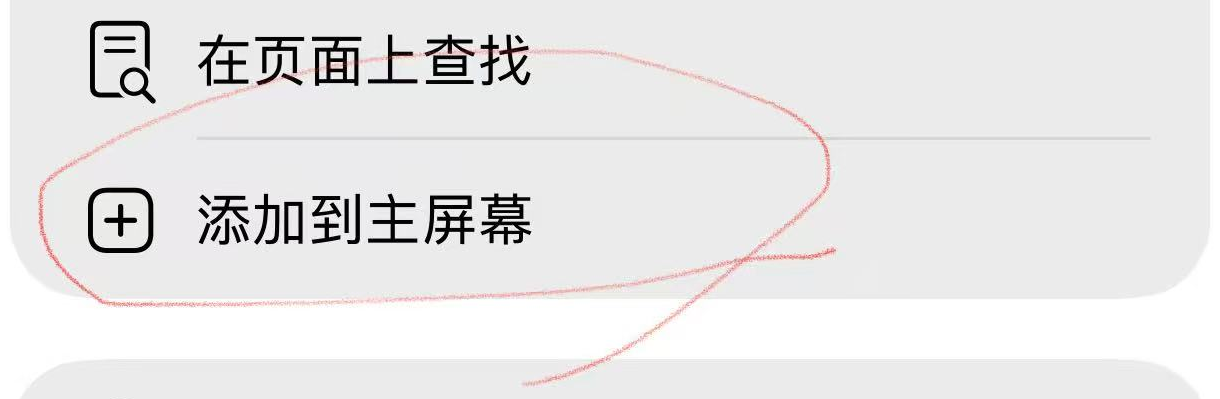
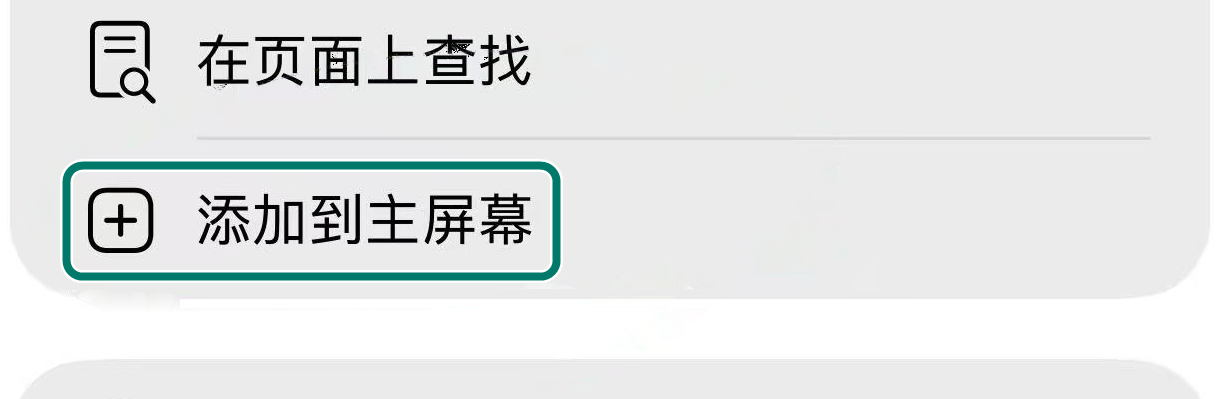
Replace Safari hand-drawn circles with consistent highlights

diff --git a/README.md b/README.md
@@ -12,15 +12,15 @@
 
 1. 在 Safari 打开[掌上题库网页版](https://skr99999.github.io/QuizPocket/)，点底部地址栏左侧的横线菜单。
 
-   <img src="docs/screenshots/iphone-safari-page-menu.png" alt="iPhone Safari 底部地址栏，红圈标出左侧的横线菜单" width="440">
+   <img src="docs/screenshots/iphone-safari-page-menu.png" alt="iPhone Safari 底部地址栏，绿色描边标出左侧的横线菜单" width="440">
 
 2. 在弹出的菜单里点「共享」。如果工具栏上直接显示共享按钮，也可以点那个按钮。
 
-   <img src="docs/screenshots/iphone-safari-share.png" alt="Safari 页面菜单，红圈标出共享选项" width="360">
+   <img src="docs/screenshots/iphone-safari-share.png" alt="Safari 页面菜单，绿色描边标出共享选项" width="360">
 
 3. 在共享菜单中向下滑，点「添加到主屏幕」。如果看不到这项，滑到列表底部，在「编辑操作」里添加它。
 
-   <img src="docs/screenshots/iphone-safari-add-to-home.png" alt="Safari 共享菜单的操作区，红圈标出添加到主屏幕" width="440">
+   <img src="docs/screenshots/iphone-safari-add-to-home.png" alt="Safari 共享菜单的操作区，绿色描边标出添加到主屏幕" width="440">
 
 4. 如果有「作为网页 App 打开」开关，打开它，再点右上角的「添加」。保持联网，从主屏幕点「掌上题库」图标。页面显示「已可离线使用」后，就可以断网打开、导入和练习。
 
